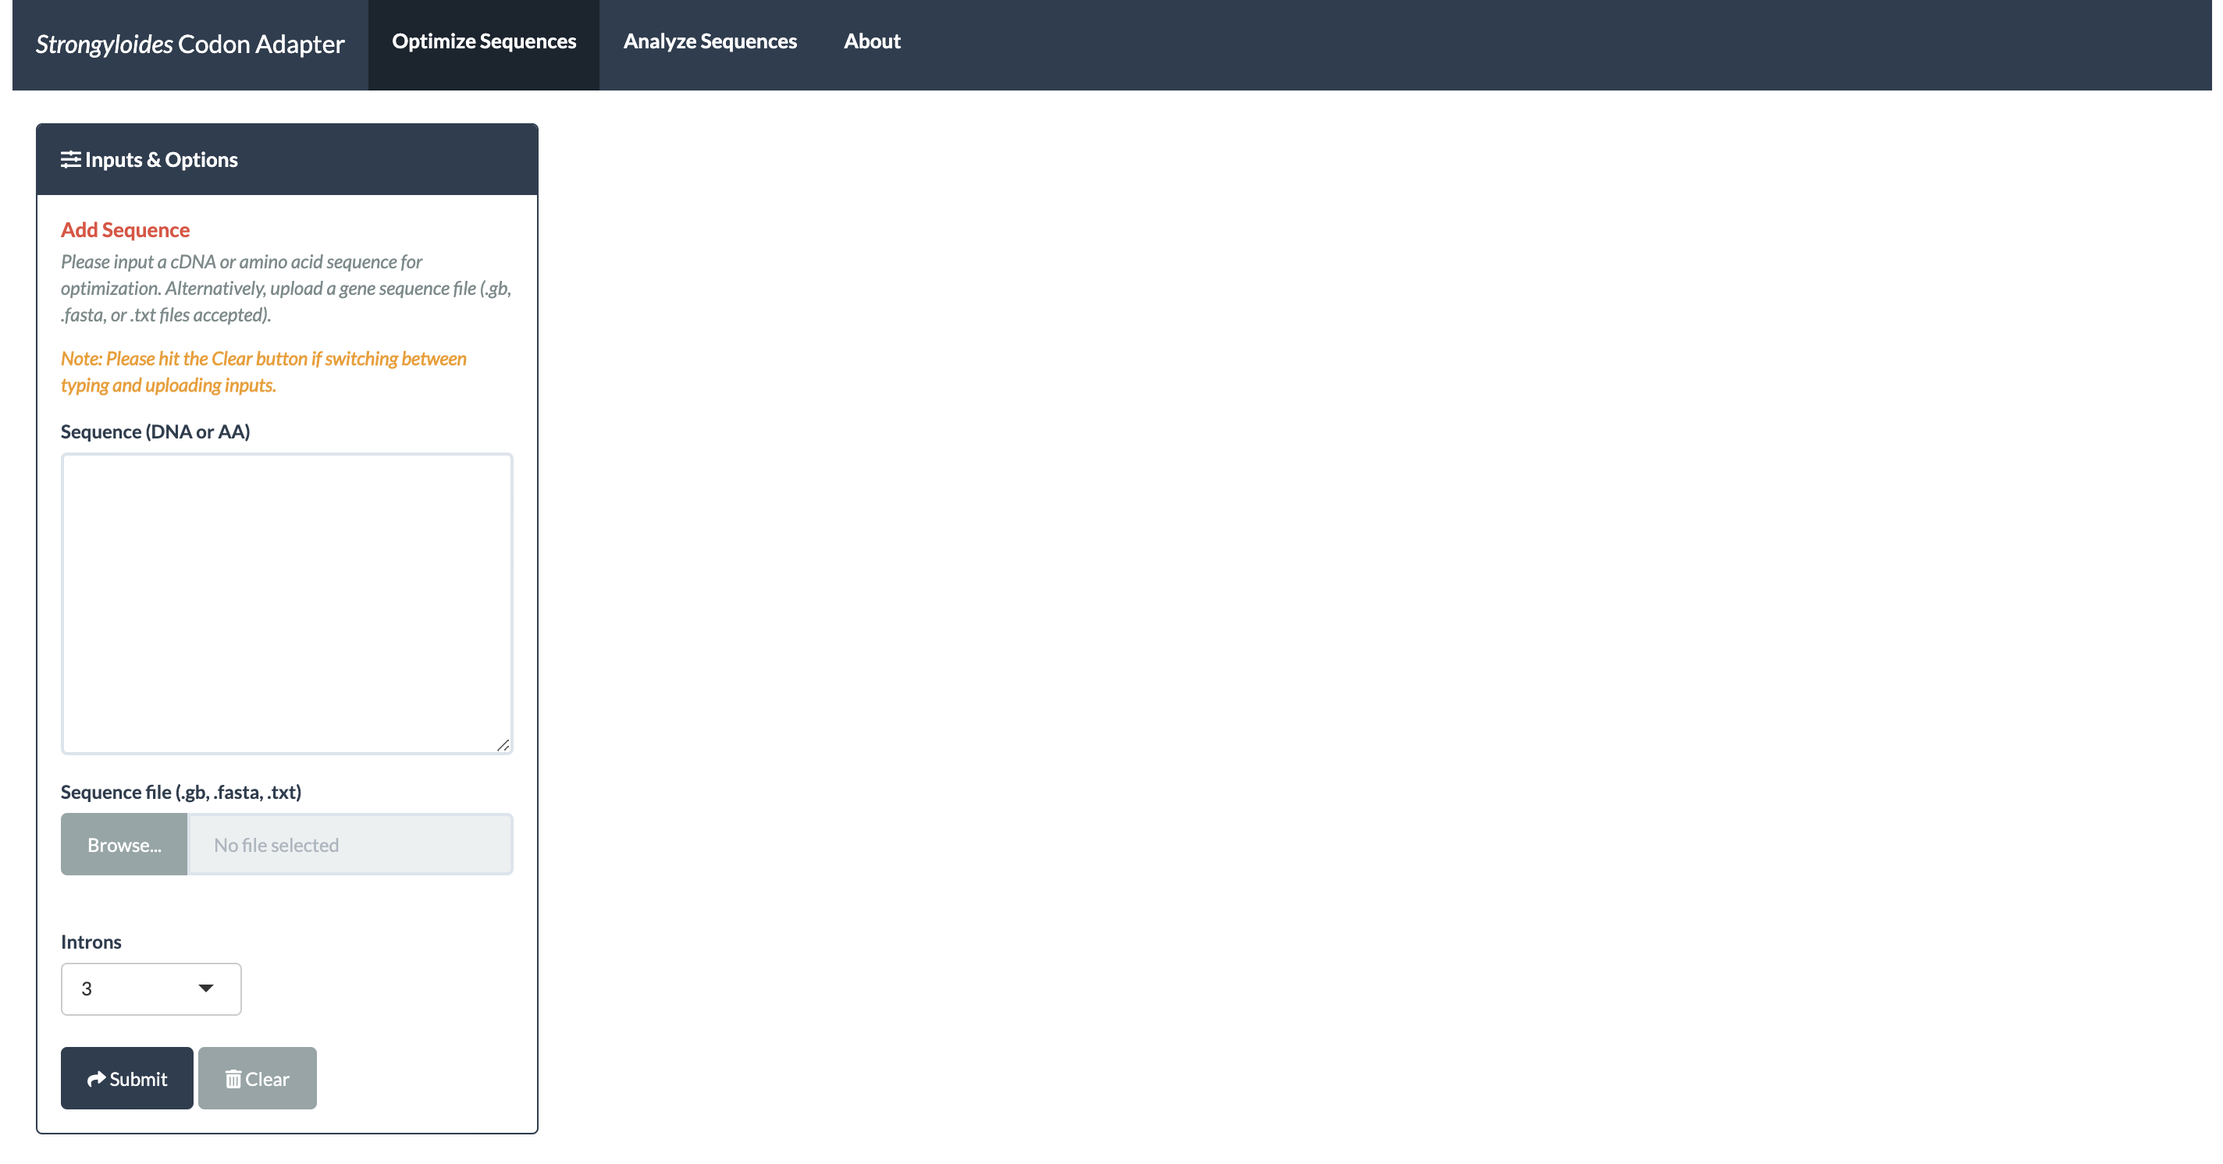
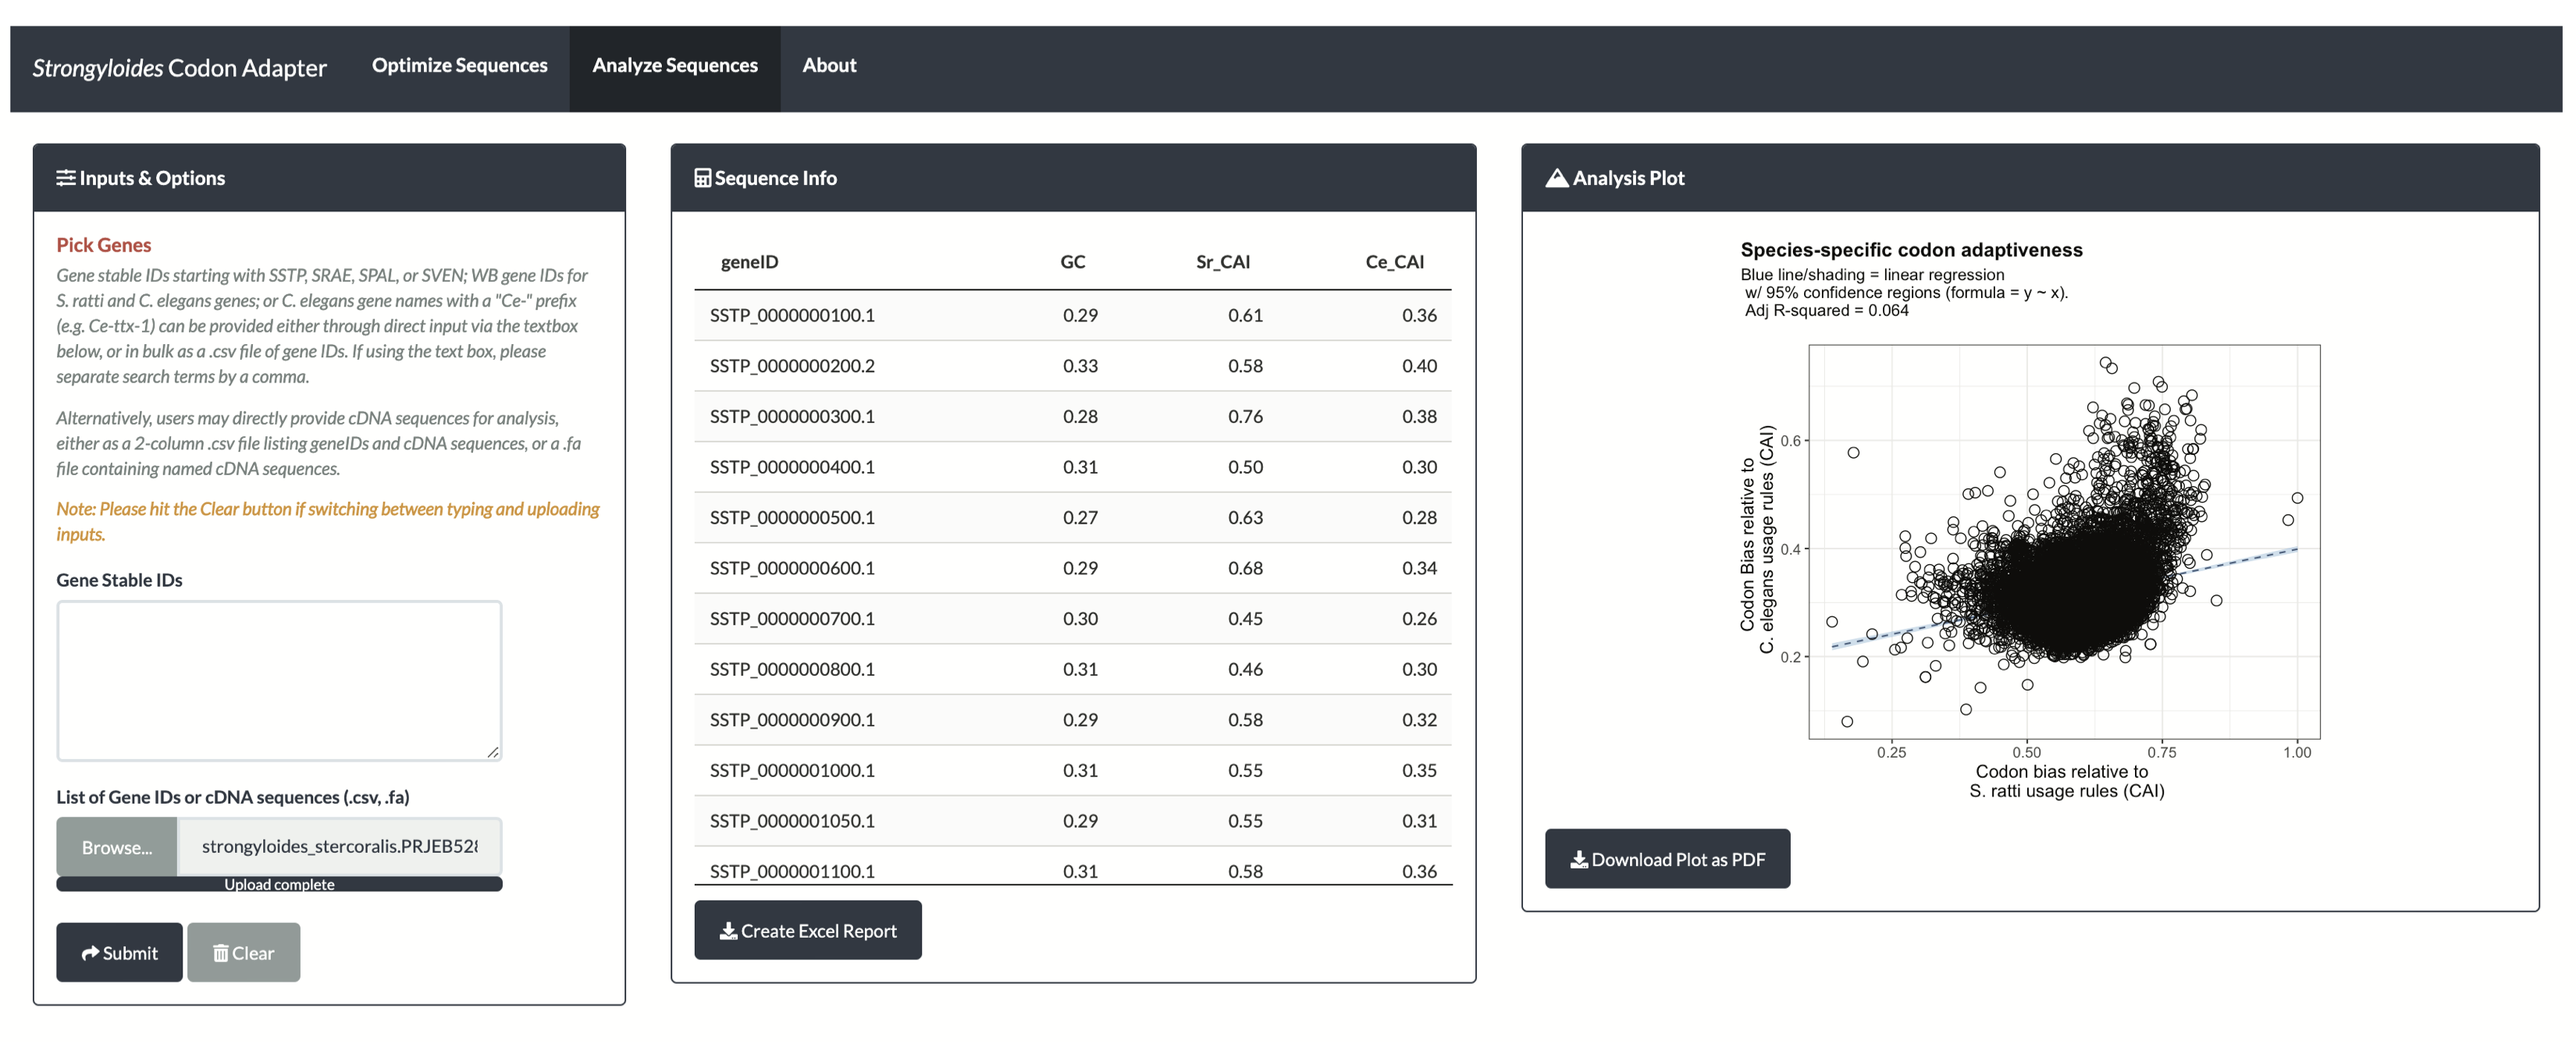
Updating Readme

diff --git a/README.md b/README.md
@@ -1,18 +1,56 @@
-# Strongyloides_Codon_Adapter
-Shiny app for automatic codon optimzation/analysis based on *Strongyloides* codon usage.  
+# Strongyloides Codon Adapter
+Web-based Shiny App for automatic codon optimzation and analysis based on *Strongyloides* codon usage.  
 
-## App Modes  
-**Optimization Mode:** This tab optimizes genetic sequences for expression in *Strongyloides* species. It accepts either nucleotide or amino acid sequences, and will generate an optimized nucleotide sequence with and without the desired number of artificial introns. Users may input sequences using the text box provided, or may upload sequences as .fasta/.gb/.txt files.  
-**Analysis Mode:** This tab reports the endogenous codon optimization for a given gene relative to the codon usage weights of hihgly expressed *Strongyloides ratti* transcripts (1). Stable Gene IDs with prefixes "SSTP", "SRAE", "SPAL", "SVE", or "WB" can be provided either through direct input via the provided textbox, or in bulk as a comma separated text file. Users may also provide a *C. elegans* gene name. This mode additionally reports the codon adaptation index for given genes relative to the codon usage weights of highly expressed *C. elegans* genes (2).
+## Table of Contents  
+1. [General Information](#general-information)
+2. [App Setup & Deployment](#app-setup-&-deployment)
+3. [App Features](#app-features)
+4. [App Methods](#app-methods)
+5. [References](#references)
+6. [Examples of App Use](#examples-of-shiny-app-ui)
+7. [Sources](#sources)
+8. [License](#license)
+9. [Authors](#authors)
 
-## CAI (Codon Adaptation Index) 
+## General Information
+This repository contains the infrastructure for generating a Shiny web application. The app is deployed via Shinyapps.io but can also be run locally. See App Setup and App Features sections below for additional details.  
+
+## App Setup & Development
+To access a stable deployment of the *Strongyloides* Codon Adapter Web App, please visit:   [https://asbryant.shinyapps.io/Strongyloides_Codon_Adapter/](https://asbryant.shinyapps.io/Strongyloides_Codon_Adapter/)  
+
+To run the latest version locally from Github, use the following command in R/RStudio:  
+`library(shiny)`  
+`shiny::runGitHub(repo = 'Strongyloides_Codon_Adapter', username = 'astrasb')`  
+
+To run a specific release locally use the following commands in R/RStudio:  
+  * For PCs --  
+    `library(shiny)`  
+    `shiny::runUrl('https://github.com/astrasb/Strongyloides_RNAseq_Browser/archive/<RELEASE_VERSION>.zip') ` 
+
+  * For Macs --  
+    `library(shiny)`  
+    `shiny::runUrl('https://github.com/astrasb/Strongyloides_RNAseq_Browser/archive/<RELEASE_VERSION>.tar.gz')`  
+
+Please note: the download step for runURL/runGitHub may take a substantial amount of time. We recommend downloading this archive and running the application locally.
+
+## App Features  
+The *Strongyloides* Codon Adapter Shiny App adapts and automates that process of codon adaptation for *Strongyloides* species, and enables users to query codon adaptiveness of select genes of interest. The app has two two modes:  
+
+1. **Optimization Mode:** This tab optimizes genetic sequences for expression in *Strongyloides* species. It accepts either nucleotide or amino acid sequences, and will generate an optimized nucleotide sequence with and without the desired number of artificial introns. Users may input sequences using the text box provided, or may upload sequences as .fasta/.gb/.txt files. Optimized sequences with or without artificial introns may be downloaded as .txt files.    
+
+2. **Analysis Mode:** This tab reports the endogenous codon optimization for a given gene relative to the codon usage weights of highly expressed *Strongyloides ratti* transcripts (1) or *C. elegans* genes (2). Stable Gene IDs with prefixes "SSTP", "SRAE", "SPAL", "SVE", or "WB" can be provided either through direct input via the provided textbox, or in bulk as a comma separated text file. Users may also provide a *C. elegans* gene name. Finally, users may direcly provide cDNA sequences for analysis, either as a 2-column .csv file listing geneIDs and cDNA sequences, or a .fa file containing named cDNA sequences.   
+
+Users may download an excel file containing the codon adaptation index and cDNA sequences for the user-provided genes. The app also generates a scatter plot displaying, for each gene, codon adaptiveness values relative to S. ratti vs C. elegans usage weights. Users may download this plot as a PDF file.  
+
+## Analysis Methods
+### CAI (Codon Adaptation Index) 
 Individual codons are scored by calculating their relative adaptivness: (the frequency that codon "i" encodes amino acid "AA") / (the frequency of the codon most often used for encoding amino acid "AA"). Genes are scored by calculating their Codon Adaptation Index: the geometric average of relative adaptiveness of all codons in the gene sequence (3,4). The CAI is calculated via the seqinr library. Codon bias in nematode transcripts can vary as a function of gene expression  levels such that highly expressed genes appear to have the greatest degree of codon bias. Therefore, optimization rules are based on the codon usage weights of highly expressed *Stronyloides ratti* transcripts (1).    
 
-## GC Content
-The fraction of G+C bases of the nucleic acid sequences. Calculated using the seqinr library.  
+### GC Content
+The fraction of G+C bases of the nucleic acid sequences. Calculated using the `seqinr` library.  
 
-## Inserting Introns
-Including synthetic introns into cDNA sequences can signficiant increase gene expression. Intron mediated enchancement of gene expression can be due to a variety of mechanisms, including by increasing the rate of transcription. Intron mediated enhancement occurs in *C. elegans* (5). Although intron mediated enhancement has to be specifically studied in *Strongyloides spp.* there is evidence that the prescence of introns does not prevent gene expression (e.g. intron-inclusive eGFP)(6). Here, the desired number of introns are inserted within in DNA sequence, up to a maximum of 3 unique introns. Intron sequences and order are taken from the Fire Lab Vector Kit (1995) (7). 
+### Inserting Introns
+Including synthetic introns into cDNA sequences can signficiant increase gene expression. Intron mediated enchancement of gene expression can be due to a variety of mechanisms, including by increasing the rate of transcription. Intron mediated enhancement occurs in *C. elegans* (5). Although intron mediated enhancement has to be specifically studied in *Strongyloides spp.* there is evidence that the prescence of introns does not prevent gene expression (e.g. intron-inclusive eGFP)(6). Here, the desired number of introns are inserted within the DNA sequence, up to a maximum of 3 unique introns. Intron sequences and order are taken from the Fire Lab Vector Kit (1995) (7). 
 
 *Intron Number and Spacing:* The Fire lab established three unique introns, spaced equidistantly within a gene as canon (7); this configuration is thus set as default, and is recommended. In *C. elegans*, the location of the intron site influences the degree of intron mediated enhancement, such that a single 5′-intron is more effective than a single 3′-intron. Therefore when only 1 or 2 introns are desired, 3 possible intron insertion sites are identified, and filled as needed, starting from the 5′ site.
 
@@ -29,17 +67,23 @@ Including synthetic introns into cDNA sequences can signficiant increase gene ex
 8. [Redemann *et al* (2011). Codon adaptation-based control of protein expression in *C. elegans*. *Nature Methods* 8: 250-252](https://pubmed.ncbi.nlm.nih.gov/21278743/). 
 9. [*Cis-* Splicing in Worms *in* *C. elegans* II (1997)](https://www.ncbi.nlm.nih.gov/books/NBK20075/)
 
-## Example: Shiny App UI: Optimize Sequences Mode
-![](https://github.com/astrasb/Strongyloides_Codon_Adapter/blob/master/Static/Str_Codon_Adapter_OptimizeMode.png)
+## Examples of Shiny App UI
+![An example of the User Interface for the Strongyloides Codon Adapter Shiny App in Optimize Mode](/Static/Str_Codon_Adapter_OptimizeMode.png)
 
-## Example: Shiny App UI: Analyze Sequences Mode
-![](https://github.com/astrasb/Strongyloides_Codon_Adapter/blob/master/Static/Str_Codon_Adapter_AnalysisMode.png)
+![An example of the User Interface for the Strongyloides Codon Adapter Shiny App in Analyze Sequences Mode](/Static/Str_Codon_Adapter_AnalysisMode.png)
 
-## Example: Shiny App UI: About Tab
-![](https://github.com/astrasb/Strongyloides_Codon_Adapter/blob/master/Static/Str_Codon_Adapter_AboutTab.png)
+## Sources  
+* [Shiny](https://shiny.rstudio.com/) - UI framework
+* [WormbaseParasite](https://parasite.wormbase.org/index.html) - GeneIDs and cDNA sequences
+* [Sequinr](https://www.rdocumentation.org/packages/seqinr/versions/3.6-1) - Utilities for calculating Codon Adaptation Index
+* Codon Usage Patterns:  
+  - *Strongyloides spp*: [Mitreva *et al* 2006](https://www.ncbi.nlm.nih.gov/pmc/articles/PMC1779591/)
+  - *C. elegans*: [Sharp and Bradnam, 1997](https://www.ncbi.nlm.nih.gov/books/NBK20194/)
+* Artifical Intron Sequences: [Fire Lab Vector Kit 1995](https://media.addgene.org/cms/files/Vec95.pdf)
+* Intron/Exon Splice Sites: [Redemann *et al* 2011](https://pubmed.ncbi.nlm.nih.gov/21278743/) and [*Cis-* Splicing in Worms *in* *C. elegans* II (1997)](https://www.ncbi.nlm.nih.gov/books/NBK20075/)
 
-## Example: Shiny App UI Optimization Mode Results Screen
-![](https://github.com/astrasb/Strongyloides_Codon_Adapter/blob/master/Static/OptimizationModeResultExample.png)
+## License  
+This project is licensed under the MIT License. 
 
-## Example: Shiny App UI Analysis Mode Results Screen
-![](https://github.com/astrasb/Strongyloides_Codon_Adapter/blob/master/Static/AnalysisModeResultExample.png)
+## Authors  
+* [Astra Bryant, PhD](https://github.com/astrasb)
